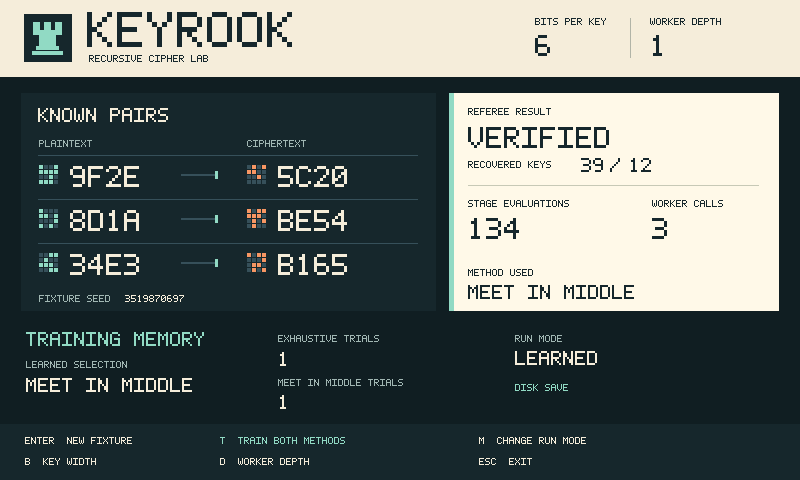
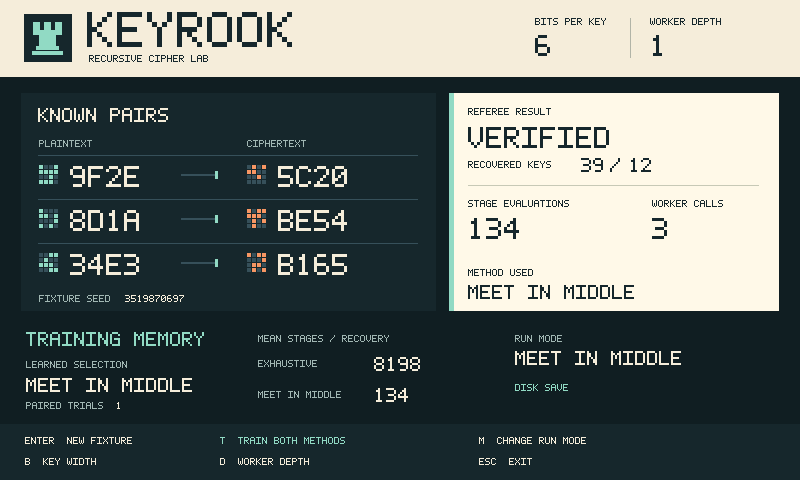
Pin the tested recovery screen and verify partitioned search

Changed region(s): [[0.3125, 0.75, 0.5312, 0.8438], [0.6875, 0.7188, 0.8438, 0.7812], [0.3125, 0.6875, 0.4688, 0.7188]]

diff --git a/store/apps/keyrook/guest/src/screen.rs b/store/apps/keyrook/guest/src/screen.rs
@@ -115,10 +115,20 @@ pub fn draw(px: &mut [u32], p: &Profile, pairs: &Challenge, last: &Episode,
     f.text(26, 361, "LEARNED SELECTION", 1, MUTED);
     let learned = if memory.runs == [0,0] { "UNTRAINED" } else { policy_name(memory.choose()) };
     f.text(26, 378, learned, 2, PAPER);
-    f.text(278, 335, "EXHAUSTIVE TRIALS", 1, MUTED);
-    num(f, 278, 352, u64::from(memory.runs[0]), 2, PAPER);
-    f.text(278, 379, "MEET IN MIDDLE TRIALS", 1, MUTED);
-    num(f, 278, 395, u64::from(memory.runs[1]), 2, PAPER);
+    f.text(26, 402, "PAIRED TRIALS", 1, MUTED);
+    num(f, 116, 402, u64::from(memory.runs[0].min(memory.runs[1])), 1, PAPER);
+    f.text(258, 335, "MEAN STAGES / RECOVERY", 1, MUTED);
+    for i in 0..2 {
+        let y = 360 + i as i32 * 31;
+        f.text(258, y, policy_name(i as u8), 1, MUTED);
+        let wins = u64::from(memory.wins[i]);
+        if wins == 0 {
+            f.text(374, y-3, "-", 2, PAPER);
+        } else {
+            let mean = memory.work[i]/wins + u64::from(memory.work[i]%wins >= wins.div_ceil(2));
+            num(f, 374, y-3, mean, if mean < 1_000_000 { 2 } else { 1 }, PAPER);
+        }
+    }
     f.text(515, 335, "RUN MODE", 1, MUTED);
     f.text(515, 351, if mode == 2 { "LEARNED" } else { policy_name(mode) }, 2, PAPER);
     f.text(515, 384, saved, 1, MINT);

diff --git a/store/apps/keyrook/core/src/lib.rs b/store/apps/keyrook/core/src/lib.rs
@@ -134,6 +134,21 @@ impl Memory {
 mod tests {
     use super::*;
     #[test] fn permutation() {for x in 0..=65535 {assert_eq!(stage(stage(x,37,false),37,true),x);}}
+    #[test]
+    fn independent_workers_partition_public_pairs_without_double_counting_keys() {
+        let public = Challenge { bits: 8, pairs: [(0xee0e,0x6346),(0xfc3a,0x8e9a),(0x45c3,0x0338)] };
+        for method in [0,1] {
+            let all=attack(&public,3,method);
+            let left=attack_range(&public,0,128,0,method);
+            let right=attack_range(&public,128,256,0,method);
+            assert_eq!(all.key,Some((57,194)));
+            assert_eq!((left.candidates,right.candidates),(0,1));
+            assert_eq!(all.key,right.key);
+            assert_eq!(left.work+right.work,all.work+u64::from(method)*256);
+        }
+        let impossible=Challenge { bits:8,pairs:[(0xee0e,0x6346),(0xee0e,0x6347),(0x45c3,0x0338)] };
+        assert_eq!(attack(&impossible,0,1).candidates,0);
+    }
     #[test] fn curriculum_and_delegation() {
         for bits in [4,6,8] {
             let mut memory=Memory::default();
